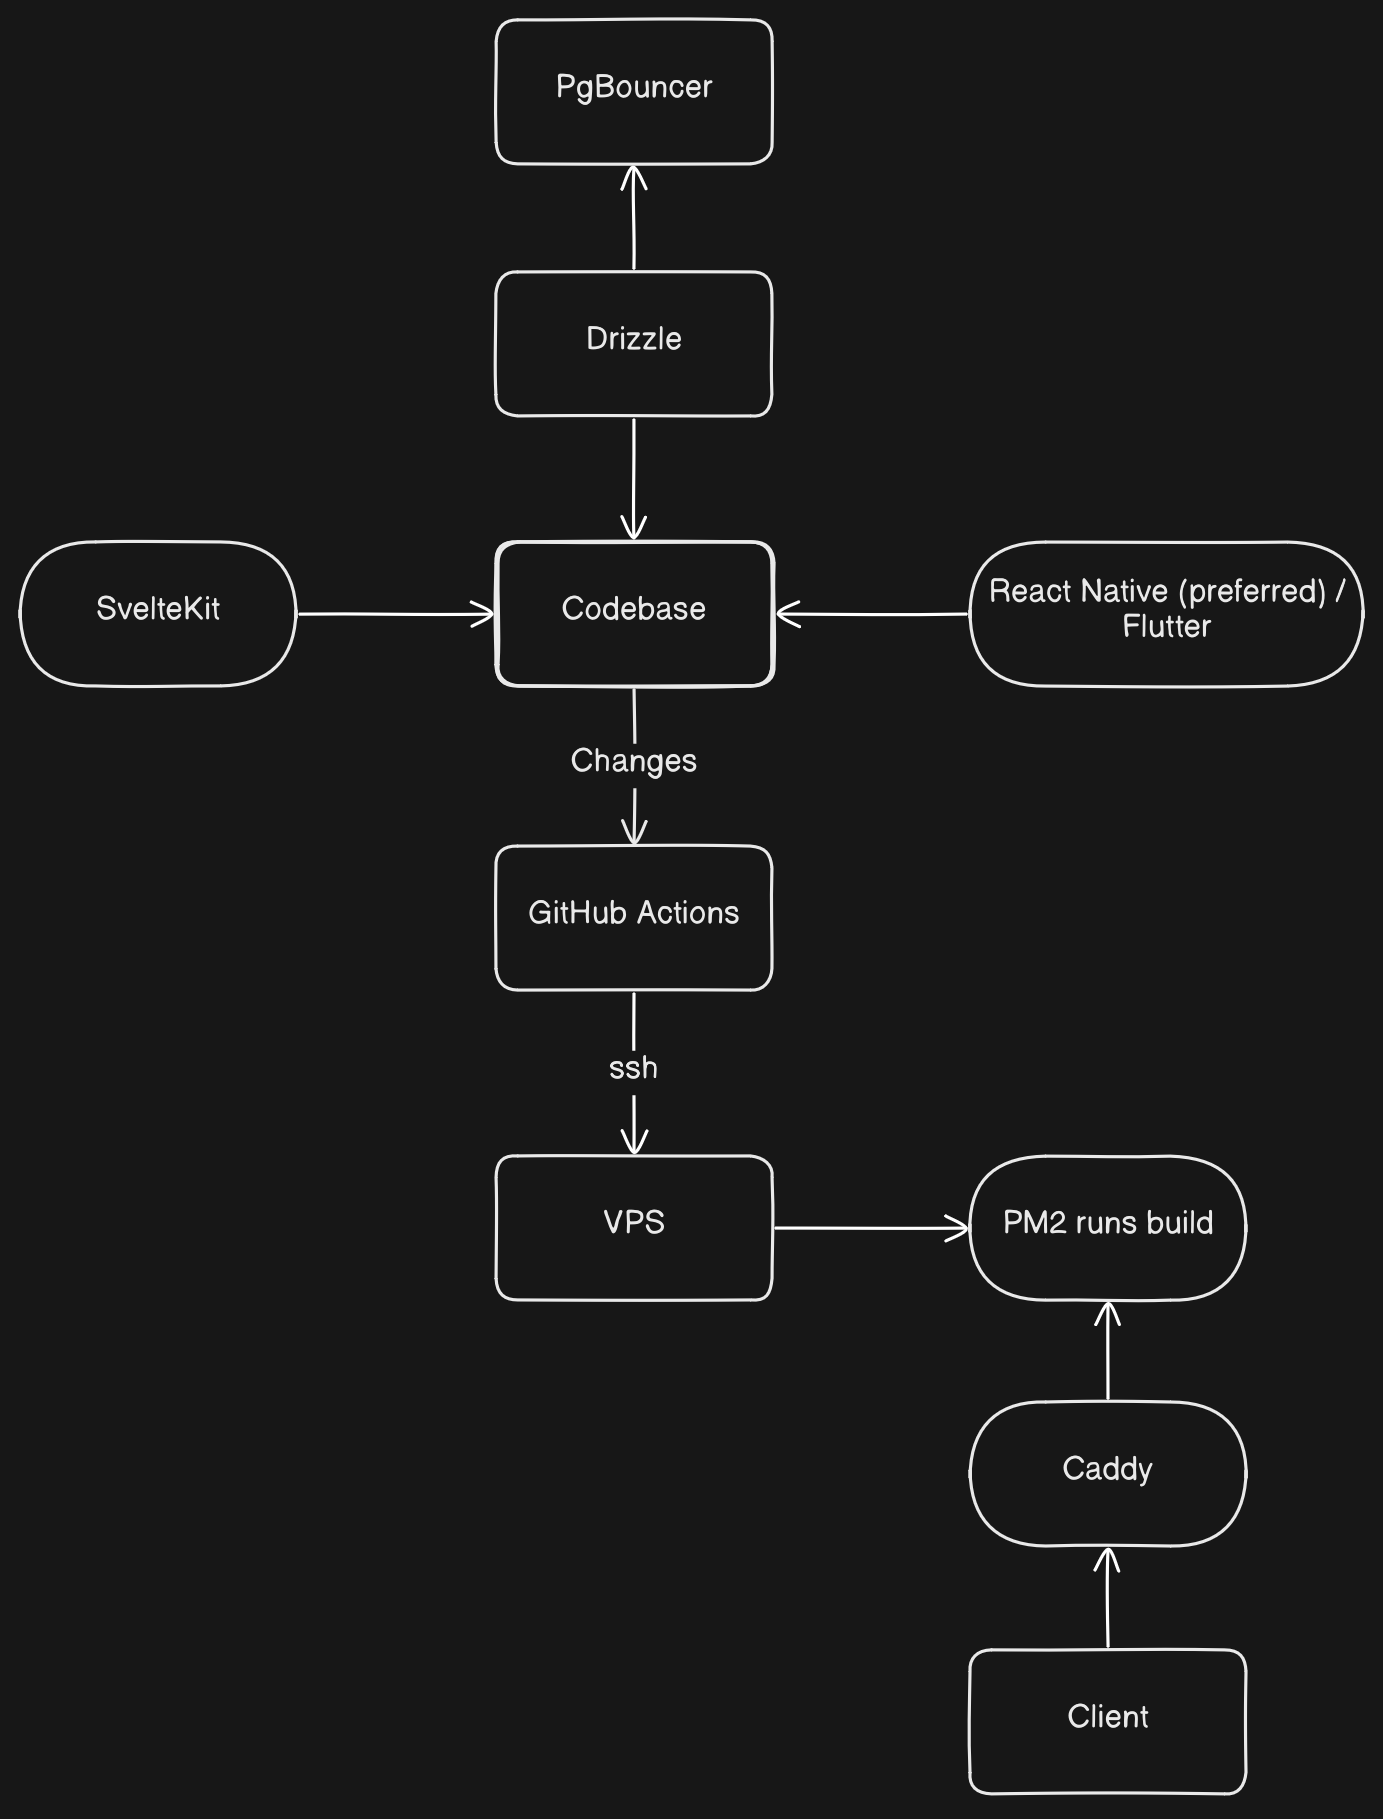
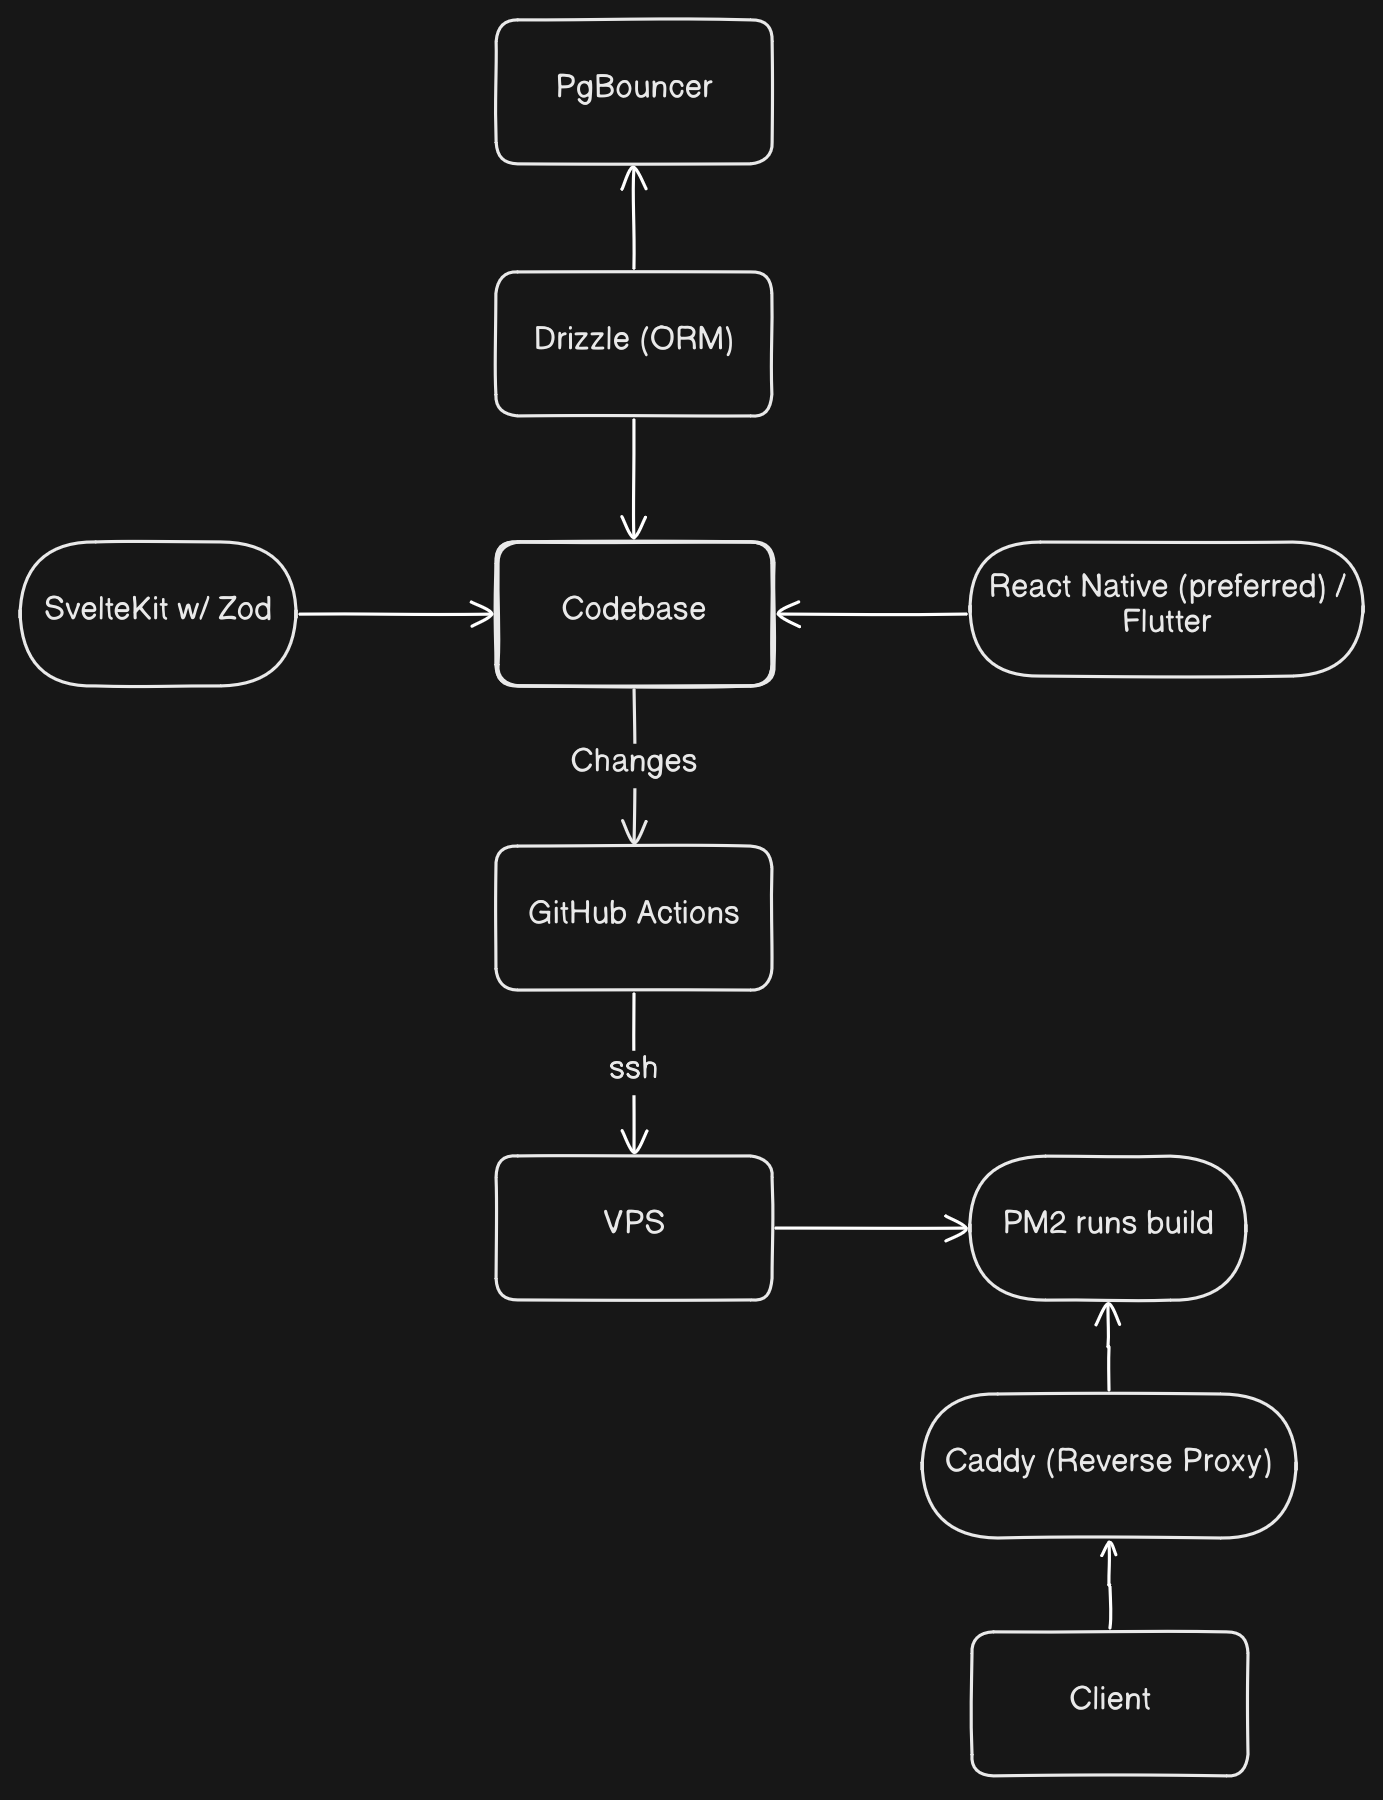
Added Zod, OpenAPI support

diff --git a/README.md b/README.md
@@ -211,13 +211,91 @@ pm2 save
 
 ---
 
-## 9. Model
+## 9. OpenAPI
+
+Use `zod-openapi` npm package to setup OpenAPI specs.
+
+```typescript
+// src/lib/server/openapi.ts
+import { createDocument } from "zod-openapi";
+import {
+    PostSchema,
+    CreatePostSchema,
+    UpdatePostSchema,
+} from "../../schemas/posts";
+
+export const spec = createDocument({
+    openapi: "3.1.0",
+    info: { title: "My API", version: "1.0.0" },
+    servers: [{ url: "https://yourdomain.com" }],
+    paths: {
+        "/api/posts/{id}": {
+            get: {
+                summary: "Get post by ID",
+                parameters: [
+                    {
+                        name: "id",
+                        in: "path",
+                        required: true,
+                        schema: z.number().openapi({ example: 1 }),
+                    },
+                ],
+                responses: {
+                    200: {
+                        description: "A post",
+                        content: {
+                            "application/json": {
+                                schema: PostSchema,
+                            },
+                        },
+                    },
+                    404: { description: "Post not found" },
+                },
+            },
+            patch: {
+                summary: "Update a post",
+                requestBody: {
+                    content: {
+                        "application/json": {
+                            schema: UpdatePostSchema,
+                        },
+                    },
+                },
+                responses: {
+                    200: {
+                        description: "Updated post",
+                        content: {
+                            "application/json": {
+                                schema: PostSchema,
+                            },
+                        },
+                    },
+                },
+            },
+        },
+    },
+});
+```
+
+Serve it as static JSON
+
+```typescript
+// src/routes/api/openapi.json/+server.ts
+import { json } from "@sveltejs/kit";
+import { spec } from "$lib/server/openapi";
+
+export const GET = async () => json(spec);
+```
+
+---
+
+## 10. Model
 
 ![Image](image.png)
 
 ---
 
-## 10. Reasons for suggestion
+## 11. Reasons for suggestion
 
 - **Better** DX and **Agile**
 - **Simpler** CI/CD
